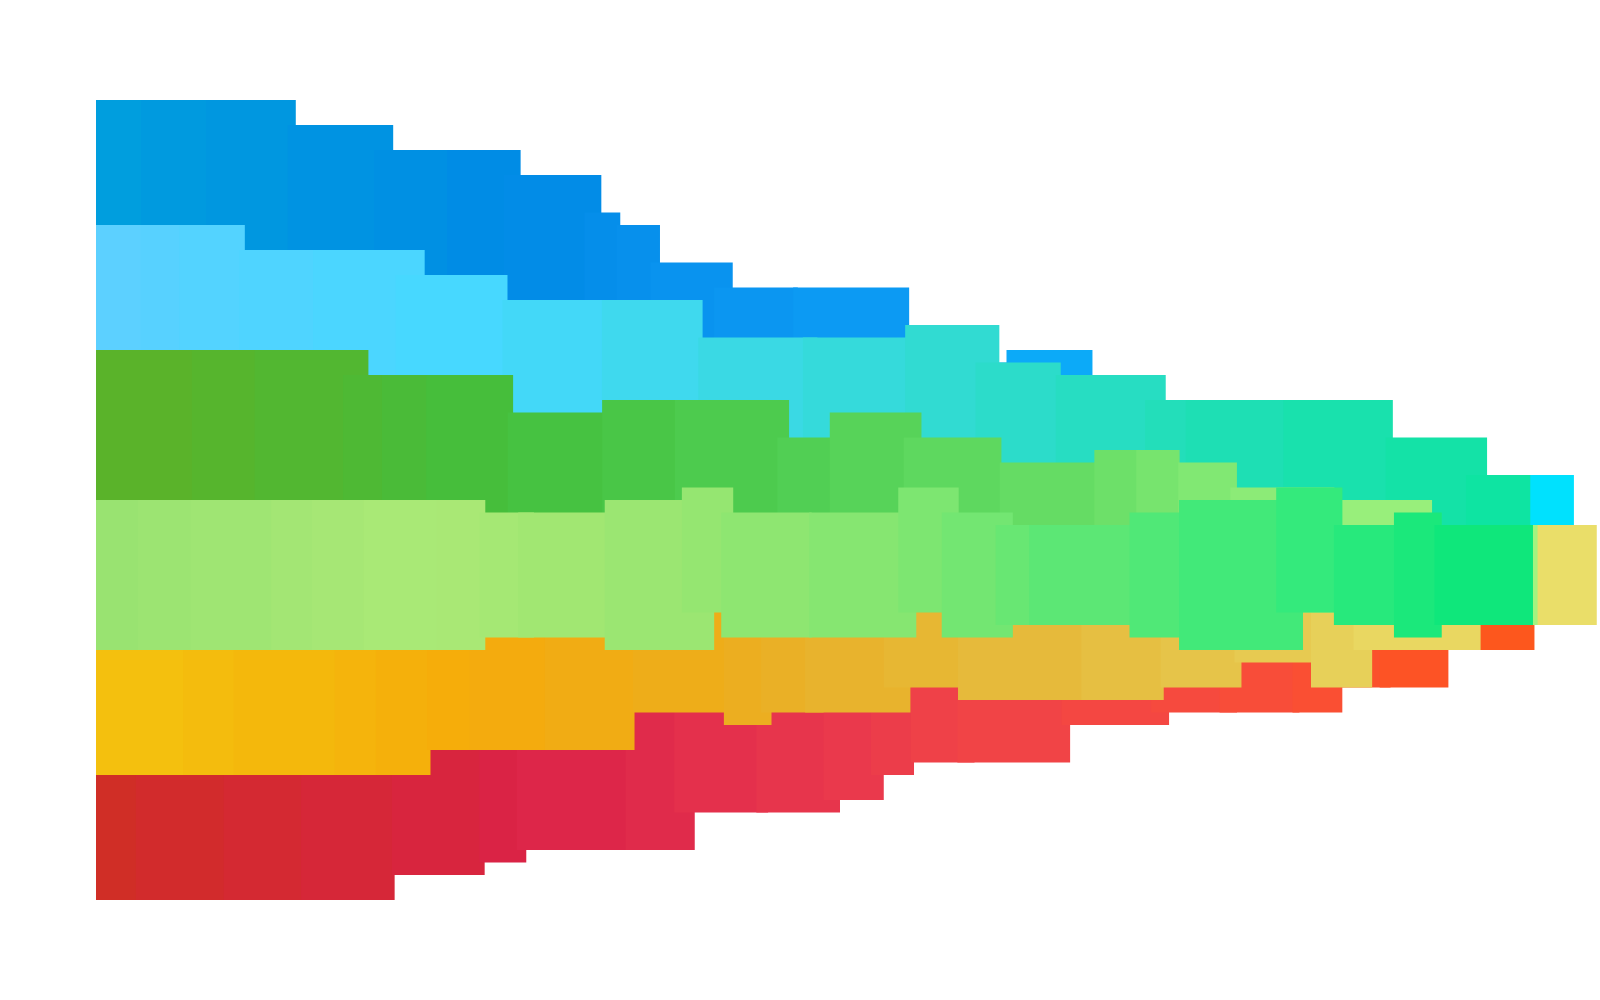
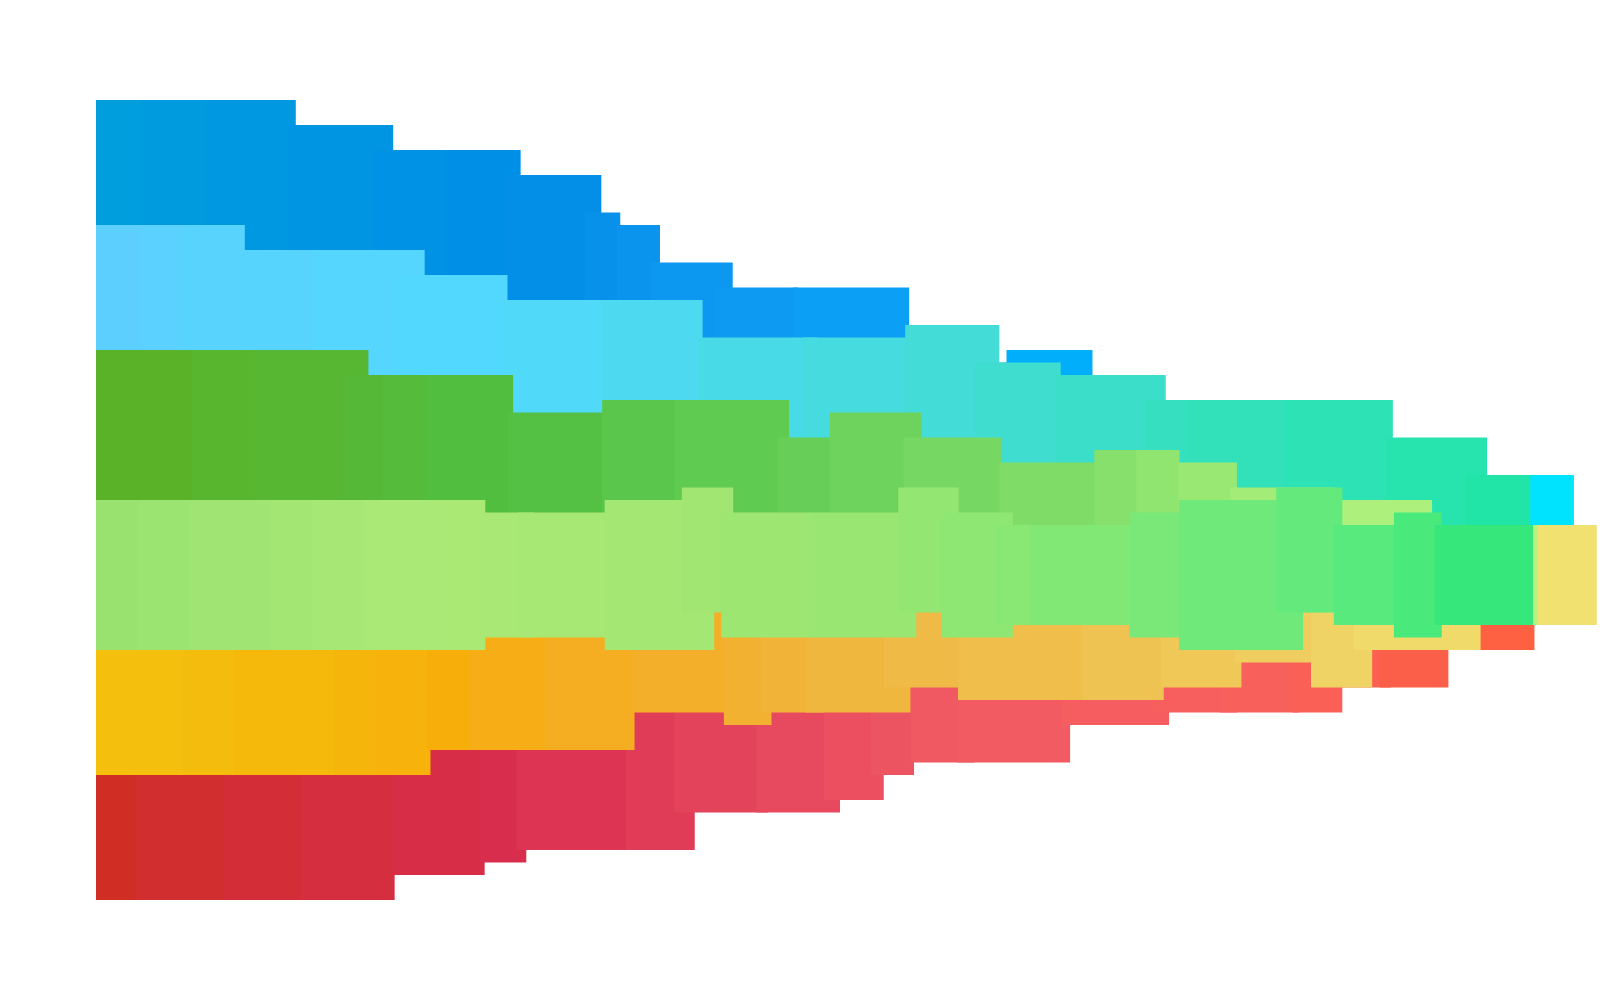
Motor: mezcla en OKLab, rampa de paleta, superposición y mosaico multiescala
Claude-Session: https://claude.ai/code/session_016ZNo35b44Yh7ZNd6P6WE65

Changed region(s): [[0.5625, 0.434, 0.9688, 0.775]]

diff --git a/app/engine.js b/app/engine.js
@@ -16,7 +16,27 @@
   const lerp = (a, b, t) => a + (b - a) * t;
   const clamp = (v, a = 0, b = 1) => Math.min(b, Math.max(a, v));
   const rgb = (c) => `rgb(${c[0] | 0},${c[1] | 0},${c[2] | 0})`;
-  const mix = (c1, c2, t) => c1.map((v, i) => lerp(v, c2[i], t));
+  // Mezcla en OKLab: evita grises sucios al cruzar tonos (rojo+cian, azul+amarillo...)
+  const toLin = (v) => { v /= 255; return v <= 0.04045 ? v / 12.92 : Math.pow((v + 0.055) / 1.055, 2.4); };
+  const toSrgb = (v) => 255 * clamp(v <= 0.0031308 ? 12.92 * v : 1.055 * Math.pow(v, 1 / 2.4) - 0.055);
+  const toLab = ([r, g, b]) => {
+    r = toLin(r); g = toLin(g); b = toLin(b);
+    const l = Math.cbrt(0.4122214708 * r + 0.5363325363 * g + 0.0514459929 * b);
+    const m = Math.cbrt(0.2119034982 * r + 0.6806995451 * g + 0.1073969566 * b);
+    const s = Math.cbrt(0.0883024619 * r + 0.2817188376 * g + 0.6299787005 * b);
+    return [0.2104542553 * l + 0.793617785 * m - 0.0040720468 * s,
+            1.9779984951 * l - 2.428592205 * m + 0.4505937099 * s,
+            0.0259040371 * l + 0.7827717662 * m - 0.808675766 * s];
+  };
+  const fromLab = ([L, a, b]) => {
+    const l = Math.pow(L + 0.3963377774 * a + 0.2158037573 * b, 3);
+    const m = Math.pow(L - 0.1055613458 * a - 0.0638541728 * b, 3);
+    const s = Math.pow(L - 0.0894841775 * a - 1.291485548 * b, 3);
+    return [toSrgb(4.0767416621 * l - 3.3077115913 * m + 0.2309699292 * s),
+            toSrgb(-1.2684380046 * l + 2.6097574011 * m - 0.3413193965 * s),
+            toSrgb(-0.0041960863 * l - 0.7034186147 * m + 1.707614701 * s)];
+  };
+  const mix = (c1, c2, t) => { const A = toLab(c1), B = toLab(c2); return fromLab(A.map((v, i) => lerp(v, B[i], t))); };
   const grad = (fam, t) => mix(hex(FAMILIES[fam].base), hex(FAMILIES[fam].end), clamp(t));
 
   function rng(seed) { // mulberry32
@@ -46,6 +66,13 @@
     };
   }
 
+  // Rampa continua: recorre varias familias (cada una con su degradado) de forma suave
+const ramp = (fams, t) => {
+    const n = fams.length, x = clamp(t) * n * 0.999, i = Math.floor(x), f = x - i;
+    const A = grad(fams[i], f), B = grad(fams[Math.min(i + 1, n - 1)], 0);
+    return f > 0.8 ? mix(A, B, (f - 0.8) / 0.2 * 0.6) : A;
+  };
+  const subset = (R, k) => { const a = ORDER.slice(); for (let i = a.length - 1; i > 0; i--) { const j = Math.floor(R() * (i + 1)); [a[i], a[j]] = [a[j], a[i]]; } return a.slice(0, k); };
   const otherFam = (R, f) => { let o; do { o = R.pick(ORDER); } while (o === f); return o; };
 
   /* ---------- Formas ---------- */
@@ -193,6 +220,60 @@
     }
   }
 
+  // Mosaico: quadtree de bloques cuyo color sale de un campo suave recorrido por la rampa
+  function mosaic(ctx, W, H, o) {
+    const R = o.R, N = noise2(o.seed + 41), M = noise2(o.seed + 77);
+    const fams = o.fams || subset(R, 3);
+    const base = Math.round(H / R.pick([5, 6, 8]));
+    const warp = (x, y) => N(x / 500 + M(x / 260, y / 260) * 1.6, y / 500 + M(y / 260, x / 260) * 1.6);
+    const thr = R.range(0.3, 0.45);
+    const cell = (x, y, s) => {
+      const v = warp(x + s / 2, y + s / 2);
+      const detail = M((x + s / 2) / 200, (y + s / 2) / 200);
+      if (s > base / 4 && R() < clamp(detail * 1.3 - 0.35) * (s / base < 0.6 ? 0.5 : 1)) {
+        const h = s / 2; cell(x, y, h); cell(x + h, y, h); cell(x, y + h, h); cell(x + h, y + h, h); return;
+      }
+      if (v < thr * 0.9 && R() < 0.9) return; // respiro blanco
+      const t = clamp((v - 0.15) / 0.7);
+      if (s >= base / 2 && R() < 0.45) { // alguna celda con tiras de degradado
+        const k = R.int(3, 5), vert = R() < 0.5;
+        for (let i = 0; i < k; i++) {
+          ctx.fillStyle = rgb(ramp(fams, t + (i / k - 0.5) * 0.18));
+          if (vert) ctx.fillRect(x + i * s / k, y, s / k + 0.5, s); else ctx.fillRect(x, y + i * s / k, s, s / k + 0.5);
+        }
+      } else { ctx.fillStyle = rgb(ramp(fams, t)); ctx.fillRect(x, y, s + 0.5, s + 0.5); }
+    };
+    for (let y = 0; y < H; y += base) for (let x = 0; x < W; x += base) cell(x, y, base);
+  }
+
+  // Mezcla: barras de degradado superpuestas; donde se cruzan, los colores se mezclan en OKLab
+  // (azul+amarillo = verde vivo, rojo+azul = violeta) en vez de oscurecerse
+  function overprint(ctx, W, H, o) {
+    const R = o.R, g = Math.round(H / 12), sub = 4, u = g / sub;
+    const q = (v) => Math.round(v / g) * g;
+    const n = R.int(5, 8), bars = [];
+    for (let i = 0; i < n; i++) {
+      const vertical = R() < 0.5;
+      const len = q(R.range(W * 0.35, W * 0.8)), th = q(R.range(H * 0.12, H * 0.34));
+      bars.push({
+        fam: R.pick(ORDER), vertical, rev: R() < 0.5, k: R.int(6, 12),
+        x: q(R.range(-W * 0.05, W * 0.75)), y: q(R.range(0, H * 0.8)),
+        w: vertical ? th : len, h: vertical ? len : th,
+      });
+    }
+    for (let y = 0; y < H; y += u) for (let x = 0; x < W; x += u) {
+      let acc = null, cnt = 0;
+      for (const b of bars) {
+        if (x < b.x || x >= b.x + b.w || y < b.y || y >= b.y + b.h) continue;
+        const p = b.vertical ? (y - b.y) / b.h : (x - b.x) / b.w;
+        const st = Math.floor(clamp(p) * b.k) / (b.k - 1);
+        const c = grad(b.fam, b.rev ? 1 - st : st);
+        acc = acc ? mix(acc, c, 1 / (cnt + 1)) : c; cnt++;
+      }
+      if (acc) { ctx.fillStyle = rgb(acc); ctx.fillRect(x, y, u + 0.5, u + 0.5); }
+    }
+  }
+
   /* ---------- Composiciones ---------- */
   const COMPS = {
     mas(ctx, W, H, o) { // retícula de cruces ("posibilidades infinitas")
@@ -217,14 +298,15 @@
     },
     flujo: (ctx, W, H, o) => flow(ctx, W, H, o),
     bandas: (ctx, W, H, o) => bands(ctx, W, H, o),
-    campo: (ctx, W, H, o) => field(ctx, W, H, o),
+    campo: (ctx, W, H, o) => mosaic(ctx, W, H, o),
+    mezcla: (ctx, W, H, o) => overprint(ctx, W, H, o),
     disolver(ctx, W, H, o) { dissolvePlus(ctx, W, H, { ...o, famH: o.R.pick(ORDER), famV: otherFam(o.R, o.R.pick(ORDER)) }); },
   };
 
   // Conceptos -> composición (modo abstracto "que genera conceptos")
   const CONCEPTOS = {
     expandir: 'flujo', crecer: 'molinillo', sumar: 'mas', unir: 'cruz',
-    diversidad: 'campo', conectar: 'bandas', transformar: 'disolver',
+    diversidad: 'campo', mezclar: 'mezcla', conectar: 'bandas', transformar: 'disolver',
   };
 
   function render(canvas, spec) {
@@ -238,6 +320,6 @@
     return comp;
   }
 
-  const api = { FAMILIES, ORDER, COMPS, CONCEPTOS, render, rng };
+  const api = { FAMILIES, ORDER, COMPS, CONCEPTOS, render, rng, ramp, mix };
   if (typeof module !== 'undefined') module.exports = api; else root.Identidad = api;
 })(typeof window !== 'undefined' ? window : globalThis);

diff --git a/app/render.js b/app/render.js
@@ -4,13 +4,17 @@ const fs = require('fs'), path = require('path');
 const out = path.join(__dirname, 'pruebas');
 const jobs = [
   ['01-expandir-flujo',        { comp: 'flujo', seed: 4 }],
-  ['02-sumar-cruces',          { comp: 'mas', seed: 12 }],
-  ['03-unir-cruz',             { comp: 'cruz', seed: 31 }],
-  ['04-crecer-molinillo',      { comp: 'molinillo', seed: 8 }],
-  ['05-transformar-disolver',  { comp: 'disolver', seed: 5 }],
-  ['06-conectar-bandas',       { comp: 'bandas', seed: 9 }],
-  ['07-diversidad-campo',      { comp: 'campo', seed: 21 }],
-  ['08-transformar-disolver-b',{ comp: 'disolver', seed: 77 }],
+  ['02-expandir-flujo-b',      { comp: 'flujo', seed: 19 }],
+  ['03-sumar-cruces',          { comp: 'mas', seed: 12 }],
+  ['04-unir-cruz',             { comp: 'cruz', seed: 31 }],
+  ['05-crecer-molinillo',      { comp: 'molinillo', seed: 8 }],
+  ['06-transformar-disolver',  { comp: 'disolver', seed: 5 }],
+  ['07-transformar-disolver-b',{ comp: 'disolver', seed: 77 }],
+  ['08-conectar-bandas',       { comp: 'bandas', seed: 9 }],
+  ['09-mezclar-superposicion', { comp: 'mezcla', seed: 3 }],
+  ['10-mezclar-superposicion-b',{ comp: 'mezcla', seed: 26 }],
+  ['11-diversidad-mosaico',    { comp: 'campo', seed: 21 }],
+  ['12-diversidad-mosaico-b',  { comp: 'campo', seed: 64 }],
 ];
 (async () => {
   fs.mkdirSync(out, { recursive: true });
